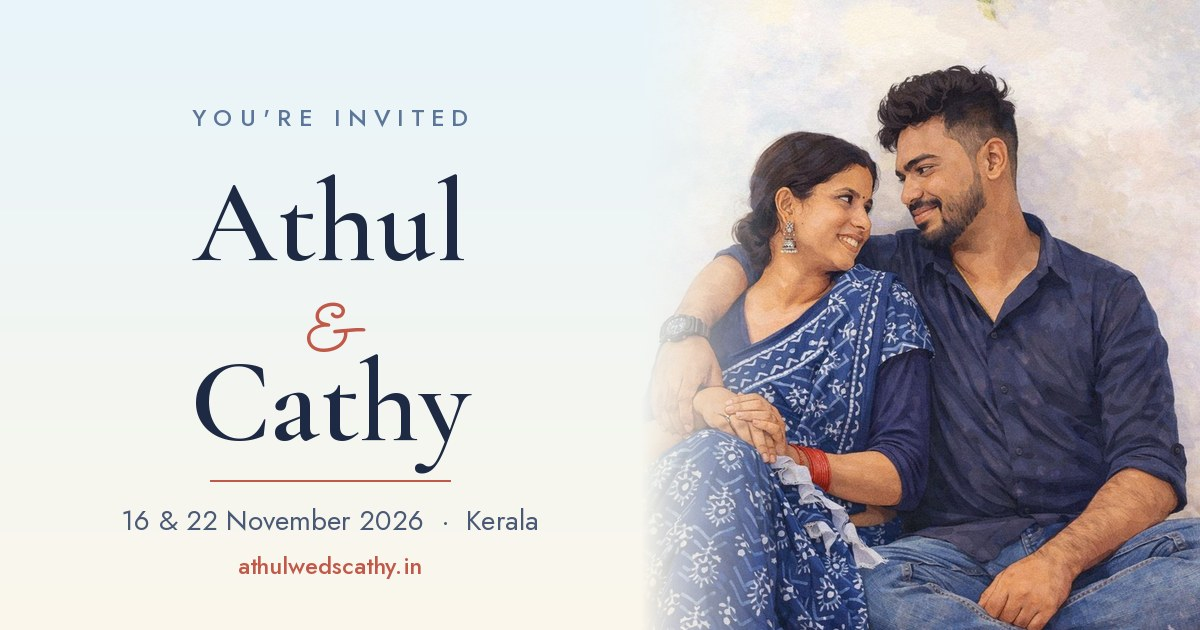
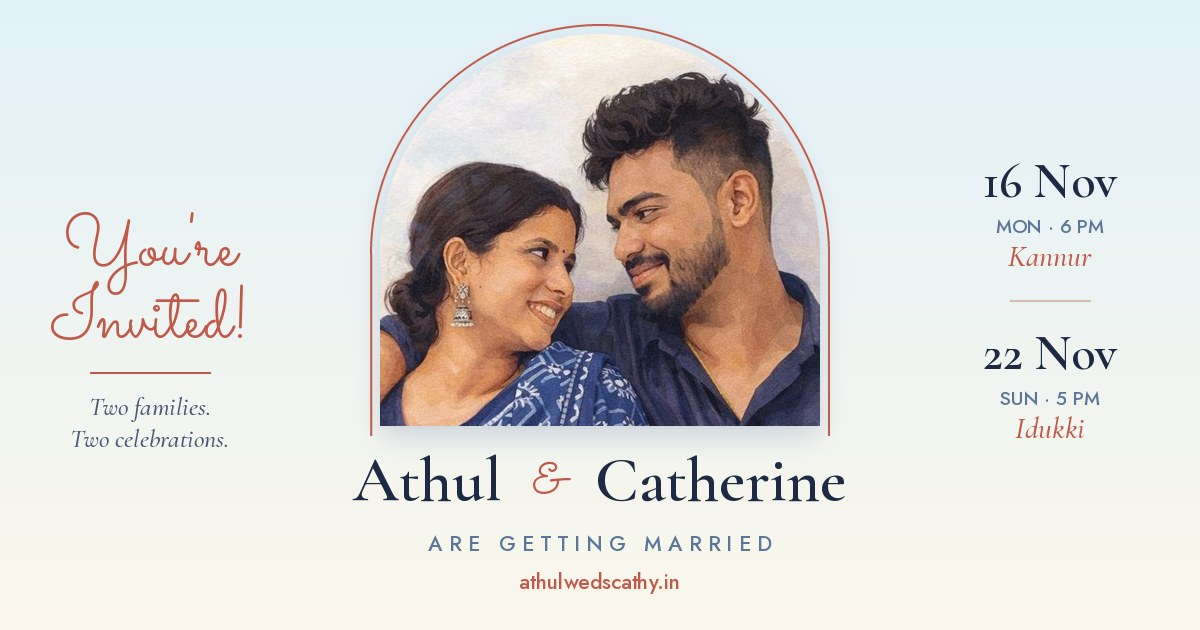
Share image survives WhatsApp's square crop; formal title and detailed meta

diff --git a/src/app/layout.tsx b/src/app/layout.tsx
@@ -2,6 +2,7 @@ import type { Metadata, Viewport } from "next";
 import { Caveat, Cormorant_Garamond, Jost, Sacramento } from "next/font/google";
 import "./globals.css";
 import { wedding } from "@/content/wedding";
+import { formatEventDateParts } from "@/lib/calendar";
 
 const cormorant = Cormorant_Garamond({
   variable: "--font-cormorant",
@@ -28,33 +29,53 @@ const caveat = Caveat({
   weight: ["500", "600", "700"],
 });
 
-const { groom, bride } = wedding.couple;
-const title = `${groom} & ${bride} are getting married`;
-const description = `${groom} & ${bride} are getting married! Join us for the receptions in Kannur (16 Nov 2026) and Idukki (22 Nov 2026) — our story, the celebrations, and how to RSVP.`;
+const { groom, bride, brideFull } = wedding.couple;
+const couple = `${groom} & ${brideFull}`;
+const title = `${couple} are getting married! You are invited!`;
+
+// e.g. "Mon, 16 Nov 2026, 6:00 PM at Suvarnabhumi Auditorium, Kannur" — built
+// from the same startsAt values the Celebrations cards use, so they never drift.
+const receptionLines = wedding.celebrations.events.map((event) => {
+  const { day, month, year, weekday, time } = formatEventDateParts(event.startsAt);
+  const clock = time.replace(" onwards", "");
+  const monthName = month.charAt(0) + month.slice(1).toLowerCase();
+  return `${weekday.slice(0, 3)}, ${day} ${monthName} ${year}, ${clock} at ${event.venueName}, ${event.address}`;
+});
+
+const description = `${couple} (${bride}) are getting married, and you're invited! ${wedding.tagline} Join us for the receptions: ${receptionLines.join("; ")}, Kerala. Read our story, browse the gallery, add the dates to your calendar, and RSVP.`;
 
 // The icon, apple-icon, favicon and share images come from the files in
 // src/app (icon.png, apple-icon.png, favicon.ico, opengraph-image.jpg,
-// twitter-image.jpg) — Next.js wires those into <head> on its own.
+// twitter-image.jpg + their .alt.txt) — Next.js wires those into <head> on its own.
 export const metadata: Metadata = {
   metadataBase: new URL(wedding.siteUrl),
   title: {
     default: title,
-    template: `%s · ${groom} & ${bride}`,
+    template: `%s · ${couple}`,
   },
   description,
   applicationName: `${groom} & ${bride}`,
+  category: "wedding",
   keywords: [
+    `${groom} and ${brideFull}`,
     `${groom} and ${bride}`,
+    `${groom} weds ${brideFull}`,
     `${groom} weds ${bride}`,
+    `${groom} ${brideFull} wedding`,
     `${groom} ${bride} wedding`,
+    "athulwedscathy",
     "wedding invitation",
     "wedding reception",
-    "Kannur",
-    "Idukki",
     "Kerala wedding",
+    "Kannur wedding reception",
+    "Idukki wedding reception",
+    ...wedding.celebrations.events.map((event) => event.venueName),
+    "November 2026 wedding",
     "RSVP",
   ],
-  authors: [{ name: `${groom} & ${bride}` }],
+  authors: [{ name: couple, url: wedding.siteUrl }],
+  creator: couple,
+  publisher: couple,
   alternates: { canonical: "/" },
   openGraph: {
     type: "website",
@@ -69,7 +90,11 @@ export const metadata: Metadata = {
     title,
     description,
   },
-  robots: { index: true, follow: true },
+  robots: {
+    index: true,
+    follow: true,
+    googleBot: { index: true, follow: true, "max-image-preview": "large", "max-snippet": -1 },
+  },
   appleWebApp: { title: `${groom} & ${bride}`, statusBarStyle: "default" },
   formatDetection: { telephone: false },
 };
@@ -80,19 +105,22 @@ const eventsJsonLd = {
   "@context": "https://schema.org",
   "@graph": wedding.celebrations.events.map((event) => ({
     "@type": "Event",
-    name: `${groom} & ${bride} — ${event.label}`,
+    name: `${couple} — ${event.label}`,
     startDate: event.startsAt,
     eventStatus: "https://schema.org/EventScheduled",
     eventAttendanceMode: "https://schema.org/OfflineEventAttendanceMode",
     image: [`${wedding.siteUrl}/opengraph-image.jpg`],
-    description: event.note.join(" "),
+    description: `${couple} are getting married! ${event.note.map((line) => (/[.!?]$/.test(line) ? line : `${line}.`)).join(" ")}`,
     url: wedding.siteUrl,
     location: {
       "@type": "Place",
       name: event.venueName,
       address: { "@type": "PostalAddress", streetAddress: event.fullAddress, addressRegion: "Kerala", addressCountry: "IN" },
     },
-    organizer: { "@type": "Person", name: `${groom} & ${bride}`, url: wedding.siteUrl },
+    organizer: [
+      { "@type": "Person", name: groom },
+      { "@type": "Person", name: brideFull, alternateName: bride },
+    ],
   })),
 };
 

diff --git a/src/content/wedding.ts b/src/content/wedding.ts
@@ -66,6 +66,8 @@ export const wedding = {
   couple: {
     groom: "Athul",
     bride: "Cathy",
+    /** Her full name — used where the formal invitation wording calls for it (title, share previews). */
+    brideFull: "Catherine",
   },
 
   // The live domain — canonical URL, share previews, sitemap and robots all build on it.
